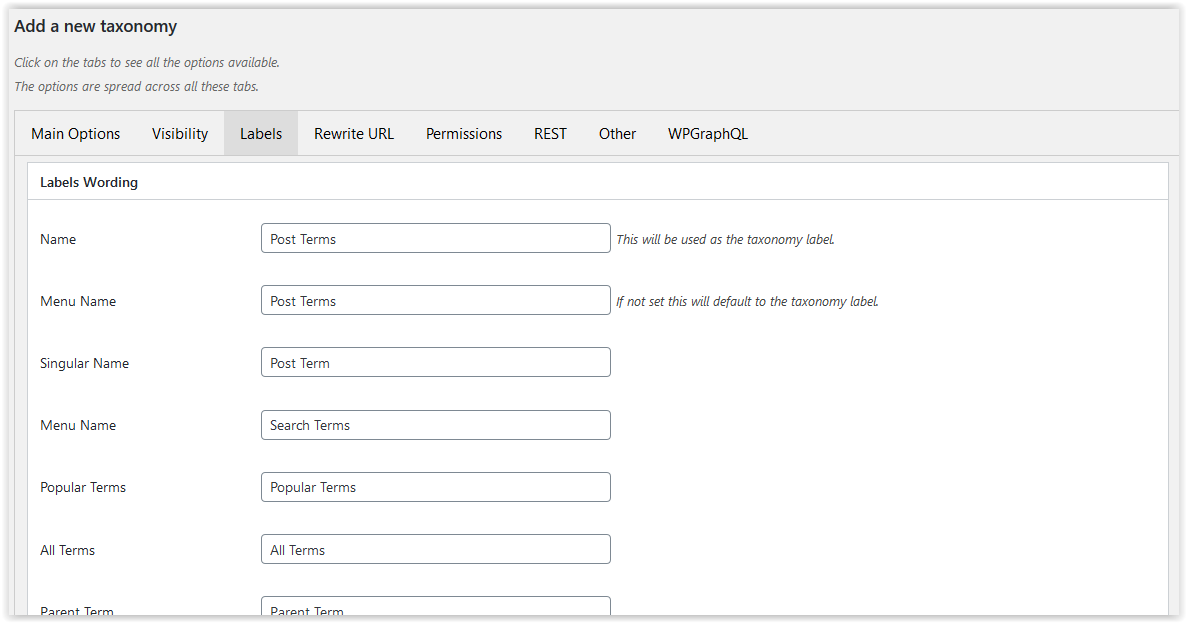
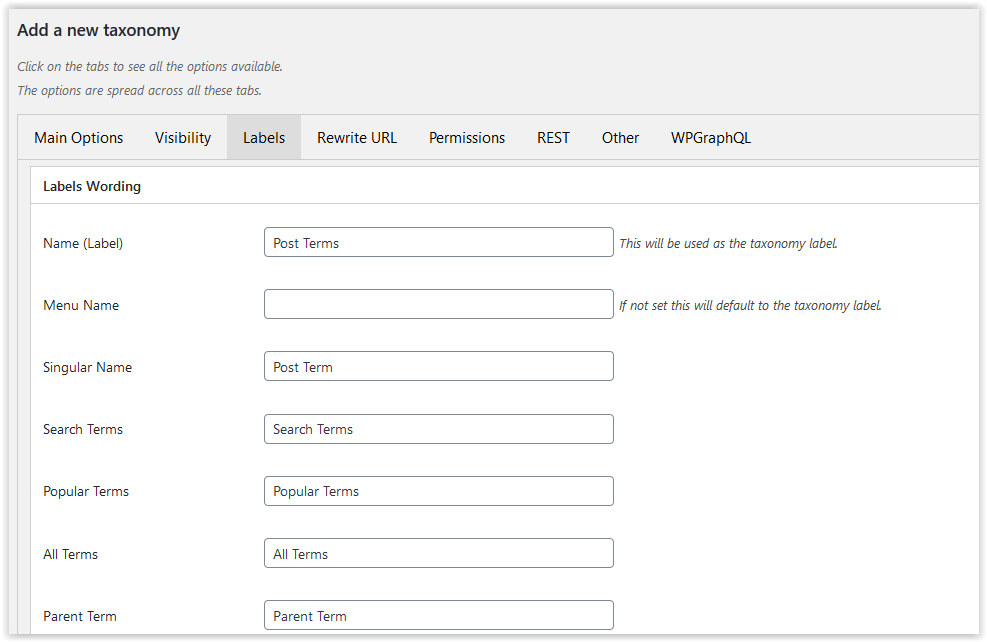
Inconsistency in treatment of query_var variable corrected

diff --git a/includes/class-simpletaxonomyrefreshed-admin.php b/includes/class-simpletaxonomyrefreshed-admin.php
@@ -436,6 +436,10 @@ class SimpleTaxonomyRefreshed_Admin {
 		$taxonomy = wp_parse_args( SimpleTaxonomyRefreshed_Client::prepare_args( $taxonomy ), $taxonomy );
 
 		// Migration case - Not updated yet.
+		if ( ! array_key_exists( 'st_before', $taxonomy ) ) {
+			$taxonomy['st_before'] = '';
+			$taxonomy['st_after']  = '';
+		}
 		if ( ! array_key_exists( 'st_slug', $taxonomy ) ) {
 			$taxonomy['st_slug']                  = '';
 			$taxonomy['st_with_front']            = 1;
@@ -568,7 +572,7 @@ class SimpleTaxonomyRefreshed_Admin {
 							<div class="inside">
 								<table class="form-table" style="clear:none;">
 									<tr valign="top">
-										<th scope="row"><label for="name"><?php esc_html_e( 'Name', 'simple-taxonomy-refreshed' ); ?></label></th>
+										<th scope="row"><label for="name"><?php esc_html_e( 'Name (slug)', 'simple-taxonomy-refreshed' ); ?></label></th>
 										<td>
 											<input name="name" type="text" id="name" onchange="checkNameSet(event)" value="<?php echo esc_attr( $taxonomy['name'] ); ?>" class="regular-text"
 											<?php
@@ -607,7 +611,7 @@ class SimpleTaxonomyRefreshed_Admin {
 												echo '<label class="inline"><input type="checkbox" ' . checked( true, in_array( $type->name, $objects, true ), false ) . ' name="objects[]" value="' . esc_attr( $type->name ) . '" /> ' . esc_html( $type->label ) . '</label>' . "\n";
 											}
 											?>
-											<span class="description"><?php esc_html_e( 'You can add this taxonomy to builtin or custom post types. (compatible Simple Custom Types)', 'simple-taxonomy-refreshed' ); ?></span>
+											<span class="description"><?php esc_html_e( 'You can add this taxonomy to builtin or custom post types.', 'simple-taxonomy-refreshed' ); ?></span>
 										</td>
 									</tr>
 									<tr valign="top">
@@ -623,6 +627,20 @@ class SimpleTaxonomyRefreshed_Admin {
 											<span class="description"><?php esc_html_e( 'Option to display the terms on the Post page with associated data', 'simple-taxonomy-refreshed' ); ?></span>
 										</td>
 									</tr>
+									<?php
+										self::option_text(
+											$taxonomy,
+											'st_before',
+											esc_html__( 'Display Terms Before text', 'simple-taxonomy-refreshed' ),
+											esc_html__( 'This text will be used before the Post terms display list', 'simple-taxonomy-refreshed' )
+										);
+										self::option_text(
+											$taxonomy,
+											'st_after',
+											esc_html__( 'Display Terms After text', 'simple-taxonomy-refreshed' ),
+											esc_html__( 'This text will be used after the Post terms display list', 'simple-taxonomy-refreshed' )
+										);
+									?>
 								</table>
 							</div>
 						</div>
@@ -705,7 +723,7 @@ class SimpleTaxonomyRefreshed_Admin {
 										self::option_label(
 											$taxonomy,
 											'name',
-											esc_html__( 'Name', 'simple-taxonomy-refreshed' ),
+											esc_html__( 'Name (label)', 'simple-taxonomy-refreshed' ),
 											esc_html__( 'This will be used as the taxonomy label.', 'simple-taxonomy-refreshed' )
 										);
 										self::option_label(
@@ -1285,10 +1303,18 @@ class SimpleTaxonomyRefreshed_Admin {
 			$output = str_replace( '%TAXO_CODE%', $code, $output );
 
 			// Set display as comment as not in parameters.
+			if ( ! array_key_exists( 'st_before', $taxo_data ) ) {
+				$taxo_data['st_before'] = '';
+			}
+			if ( ! array_key_exists( 'st_after', $taxo_data ) ) {
+				$taxo_data['st_after'] = '';
+			}
 			$display  = "\n" . '// ' . esc_html__( 'Display Terms with Posts', 'simple-taxonomy-refreshed' ) . ': ';
 			$display .= ( 'both' === $taxo_data['auto'] ? 'content, excerpt' : $taxo_data['auto'] );
+			$display .= "\n" . '// ' . esc_html__( 'Display Terms Before text', 'simple-taxonomy-refreshed' ) . ': ' . $taxo_data['st_before'];
+			$display .= "\n" . '// ' . esc_html__( 'Display Terms After text', 'simple-taxonomy-refreshed' ) . ': ' . $taxo_data['st_after'];
 
-			$output .= $display . ".\n";
+			$output .= $display . "\n";
 
 			// Force download.
 			header( 'Content-Disposition: attachment; filename=' . $taxo_name . '.php' );
@@ -1383,13 +1409,13 @@ class SimpleTaxonomyRefreshed_Admin {
 		// Is there a change of rewrite rules involved in this update?
 		$old_tax = $current_options['taxonomies'][ $taxonomy['name'] ];
 		if ( (bool) $old_tax['rewrite'] ) {
-			// this plugin has a specific element, old one uses query_vars.
-			$old_slug = ( array_key_exists( 'st_slug', $old_tax ) ? $old_tax['st_slug'] : $old_tax['query_vars'] );
+			// this plugin has a specific element, old one uses query_var.
+			$old_slug = ( array_key_exists( 'st_slug', $old_tax ) ? $old_tax['st_slug'] : $old_tax['query_var'] );
 		} else {
 			$old_slug = '!impossible!';
 		}
 		if ( (bool) $taxonomy['rewrite'] ) {
-			$new_slug = $taxonomy['st_slug'];
+			$new_slug = ( empty( $taxonomy['st_slug'] ) ? $taxonomy['name'] : $taxonomy['st_slug'] );
 		} else {
 			$new_slug = '!impossible!';
 		}

diff --git a/includes/class-simpletaxonomyrefreshed-client.php b/includes/class-simpletaxonomyrefreshed-client.php
@@ -54,17 +54,15 @@ class SimpleTaxonomyRefreshed_Client {
 	 * @return array
 	 */
 	public static function prepare_args( $taxonomy ) {
-		// Empty query_var ? use name.
-		if ( empty( $taxonomy['query_var'] ) ) {
-			$taxonomy['query_var'] = $taxonomy['name'];
-		} else {
-			$taxonomy['query_var'] = trim( $taxonomy['query_var'] );
-		}
-
 		// Ensure complete.
 		$taxonomy                 = wp_parse_args( $taxonomy, self::get_taxonomy_default_fields() );
 		$taxonomy['labels']       = wp_parse_args( $taxonomy['labels'], self::get_taxonomy_default_labels() );
 		$taxonomy['capabilities'] = wp_parse_args( $taxonomy['capabilities'], self::get_taxonomy_default_capabilities() );
+
+		// Empty query_var ? use name.
+		if ( ! empty( $taxonomy['query_var'] ) ) {
+			$taxonomy['query_var'] = trim( $taxonomy['query_var'] );
+		}
 
 		// Empty slug ? use name.
 		if ( empty( $taxonomy['st_slug'] ) ) {
@@ -119,7 +117,7 @@ class SimpleTaxonomyRefreshed_Client {
 		);
 
 		// code-related fields. Can't assume null is valid.
-		if ( ! empty( $taxonomy['query_var'] ) ) {
+		if ( empty( $taxonomy['query_var'] ) ) {
 			$tax_out['query_var'] = $taxonomy['name'];
 		}
 		if ( ! empty( $taxonomy['st_args'] ) ) {
@@ -211,23 +209,24 @@ class SimpleTaxonomyRefreshed_Client {
 		$output = '';
 
 		$options = get_option( OPTION_STAXO );
+
 		foreach ( (array) $options['taxonomies'] as $taxonomy ) {
-
-			$filter = false;
-			if ( isset( $taxonomy['auto'] ) && 'both' === $taxonomy['auto'] ) {
-				$filter = true;
-			} elseif ( isset( $taxonomy['auto'] ) && $type === $taxonomy['auto'] ) {
-				$filter = true;
-			}
-
-			if ( true === $filter ) {
-				$terms = get_the_term_list( $post->ID, $taxonomy['name'], $taxonomy['labels']['name'] . ': ', ', ', '' );
-				if ( ! empty( $terms ) ) {
-					$output .= "\t" . '<div class="taxonomy-' . $taxonomy['name'] . '">' . $terms . "</div>\n";
-				} else {
+			// Does the post_type uses this taxonomy.
+			if ( isset( $taxonomy['auto'] ) && in_array( $post->post_type, $taxonomy['objects'], true ) ) {
+				if ( 'both' === $taxonomy['auto'] || $type === $taxonomy['auto'] ) {
+					// Migration case - Not updated yet.
+					if ( ! array_key_exists( 'st_before', $taxonomy ) ) {
+						$taxonomy['st_before'] = '';
+						$taxonomy['st_after']  = '';
+					}
+					$terms = get_the_term_list( $post->ID, $taxonomy['name'], $taxonomy['st_before'], ', ', $taxonomy['st_after'] );
+					if ( ! empty( $terms ) ) {
+						$output .= "\t" . '<div class="taxonomy-' . $taxonomy['name'] . '">' . $terms . "</div>\n";
+					} else {
 						// On migration and before update, no value in 'not_found'.
-						$notfound = ( isset( $taxonomy['labels']['not_found'] ) ? $taxonomy['labels']['not_found'] : 'No Terms found' );
-					$output      .= "\t" . '<!-- Taxonomy : ' . $taxonomy['name'] . ' : ' . $notfound . ' -->' . "\n";
+						$notfound = ( isset( $taxonomy['labels']['not_found'] ) ? $taxonomy['labels']['not_found'] : __( 'No Terms found', 'simple-taxonomy-refreshed' ) );
+						$output  .= "\t" . '<!-- Taxonomy : ' . $taxonomy['name'] . ' : ' . $notfound . ' -->' . "\n";
+					}
 				}
 			}
 		}
@@ -289,6 +288,8 @@ class SimpleTaxonomyRefreshed_Client {
 			// Specific to plugin.
 			'objects'                  => array(),
 			'auto'                     => 'none',
+			'st_before'                => '',
+			'st_after'                 => '',
 			'st_slug'                  => '',
 			'st_with_front'            => 1,
 			'st_hierarchical'          => 1,

diff --git a/docs/addmod.md b/docs/addmod.md
@@ -1,16 +1,16 @@
 # Add/Modify a Taxonomy
 
-The main purpose of the plug-in is to set the very many parameters available to the user when defining a Taxonomy.
+The main purpose of the plug-in is to be able to set the very many parameters available to the user when defining a Taxonomy.
 
 They are all set within this section. This appears in the middle of the initial Settings screen. It also appears as the entire screen for modification.
 
-Because there are so many parameters rather than supporting a very large page, the window has been divided into a number of panels.
+Because there are so many parameters, the window has been divided into a number of panels rather than supporting a very large page.
 
-The names, in English, associated with the fields correspond to the variables that are being set. There is no point here second guessing their usage or purpose.
+The names, in English, associated with the fields correspond to the variables that are being set. There is no point here trying to restate their usage or purpose.
 
-See the [WordPress Documentation](https://developer.wordpress.org/reference/functions/register_taxonomy/) for their detail.
+See the [WordPress Documentation](https://developer.wordpress.org/reference/functions/register_taxonomy/) for details of their impact.
 
-You can move from panel to panel reviewing the parameters - but they need to be stored into the database by clicking the Add or Update Taxonomy before taking effect.
+You can move from panel to panel reviewing the parameters - but they need to be stored into the database by clicking the Add or Update Taxonomy before they will take effect.
 
 ## Main
 
@@ -18,7 +18,7 @@ You can move from panel to panel reviewing the parameters - but they need to be 
 
 The name **must** be completed in order to add the taxonomy.
 
-The last field *Display Terms with Posts* is not related to a parameter. It allows you to request that the taxonomy terms added to posts are displayed with the post content and/or excerpt.
+The last fields *Display Terms with Posts* is not related to WordPress standard functionality. It allows you to request that the taxonomy terms are added to posts are displayed with the post content and/or excerpt. When used, the list of terms can be prefixed and suffixed by the user-defined Before and After texts.
 
 ## Visibility
 
@@ -48,7 +48,7 @@ Sets the capabilities required to manage the taxonomy. These need to be existing
 
 ![REST Panel](../images/AddTaxRest.png)
 
-If non-standard processing is required for RST processing, the code routines can be declared here.
+If non-standard processing is required for REST processing, the code routines can be declared here.
 
 ## Other
 
@@ -60,6 +60,5 @@ Various other parameters are managed here.
 
 ![PWPGraphQL Panel](../images/AddTaxGrQL.png)
 
-This is an optional set of parameters and is provided as a convenience to avoid user codong if WPGraphQL is installed.
-
+This is an optional set of parameters and is provided as a convenience to avoid user coding when WPGraphQL is installed.
 

diff --git a/docs/example.md b/docs/example.md
@@ -9,7 +9,8 @@ We will add a taxonomy called test_hier with a few minimal attributes on the var
 	Name: test_hier
 	Type: Hierarchical
 	Attached to: Posts
-	Display terms on: Content
+	Display Terms with Posts: Content
+	Display Terms Before text: Test Terms :
 
 <u>Labels</u>
 
@@ -115,10 +116,13 @@ Clicking on *Export PHP* will download a file call test_hier.php to the browser 
 	) );
 	}
 	// Display Terms with Posts: content.
+	// Display Terms Before text: Test Terms :
+	// Display Terms After text: 
+
 
 This can be included in your own code - but then should be deleted as a custom taxonomy.
 
-You can also use it as a single page reference, which is why the last line comment has been added.
+You can also use it as a single page reference, which is why the last comment lines have been added.
 
 ## Adding Terms to the taxonomy
 Since show_in_menu is set to true, it is available as a sub-menu from the Posts menu.
@@ -183,4 +187,30 @@ As the data has been entered hierarchically, this is how it is loaded.
 
 ![Terms migrate screen](../images/MigScreen6.png)
 
+## Changing the Taxonomy Slug
 
+Normally you cannot change the taxonomy slug since any terms that have been defined for it will use that slug.
+
+Whilst you can create a second custom taxonomy with similar parameters and use the export/import migration capabilities, this will not move any term usages across.
+
+A tool (Rename Taxonomy Slug) has been provided for that purpose only.
+
+![Rename Taxonomy Slug](../images/RenameTaxSlug.png)
+
+You select the taxonomy to be changed and it shows you existing values. Enter the new slug name.
+
+Because the query_var and rewrite slug are closely related to the taxonomy slug, these are displayed and are optionally updatable here.
+
+Since the rewrite option was not defined with this basic example, it is not shown on this screen.
+
+![New Slug Entered](../images/RenamedSlug.png)
+
+The Rename Taxinomy button is now active and once checked the data can be clicked. The processing done is given.
+
+![Rename messages](../images/RenameMessages.png)
+
+After this is done, you might wish to use the menu to look at the new taxonomy. If clicked on, then you will get an invalid taxonomy message.
+
+This is because it still has the old slug name - which no longer exists. So before doing this refresh the page.
+
+You will be able to see the terms using the new slug - and all the terms are there - and all the posts have the same terms attached.

diff --git a/docs/readme.md b/docs/readme.md
@@ -5,7 +5,7 @@ WordPress provides a simple custom taxonomy, this plugin makes it even simpler, 
 * Contributors: nwjames, momo360modena
 * Tags: tags, taxonomies, custom taxonomies, taxonomy, category, categories, term conversion, conversion
 * Requires at least: 4.8
-* Stable tag: 1.0.2
+* Stable tag: 1.0.3
 * Tested up to: 5.3.2
 * License: GPLv3 or later
 * License URI: https://www.gnu.org/licenses/gpl-3.0.html
@@ -60,6 +60,10 @@ You should review the parameters to ensure that your needs are correctly set.
 See [Usage details](./usage.md) for more information on the usage of the plugin.
 
 ## Changelog
+
+* Version 1.0.3
+	* Inconsistency in treatment of query_var variable corrected (introduced in 1.0.2).
+	* User-defined text surrounding custom taxonomies when requested for listing in posts.
 
 * Version 1.0.2
 	* Add tool to rename custom taxonomy slug. Terms and usages will be updated as well.
